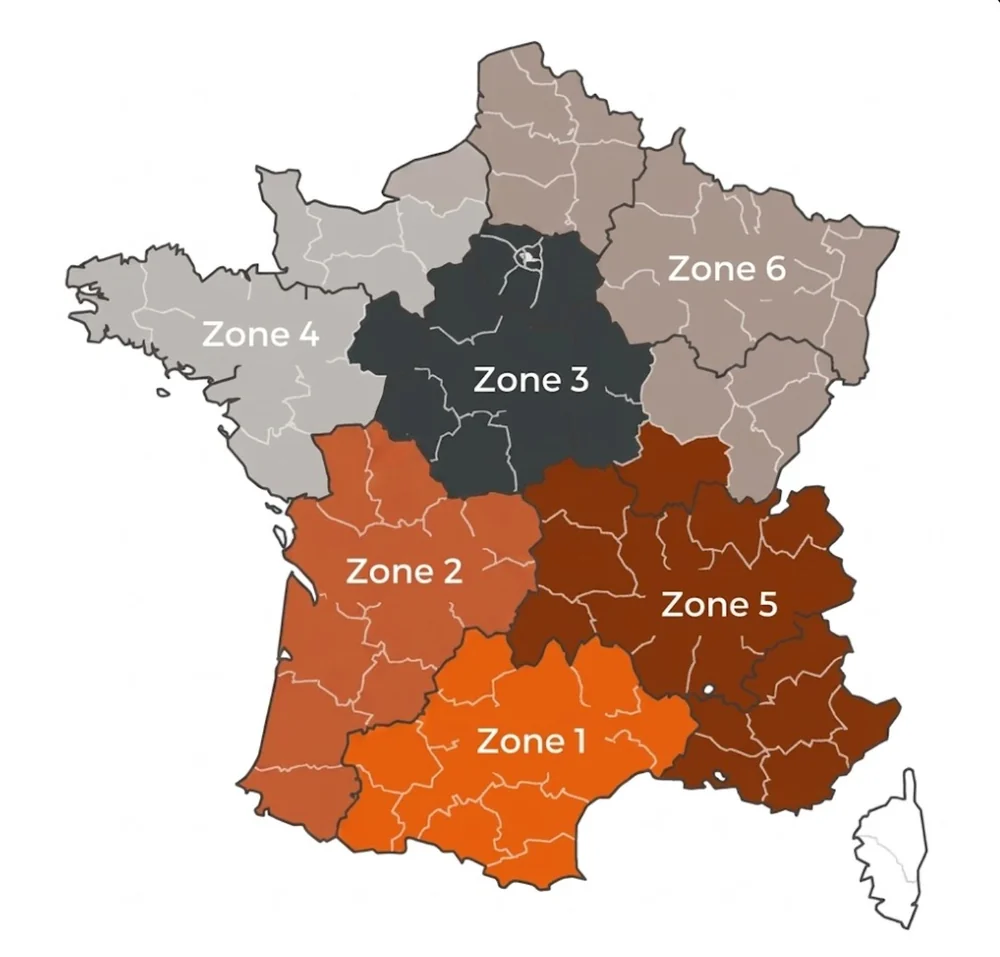
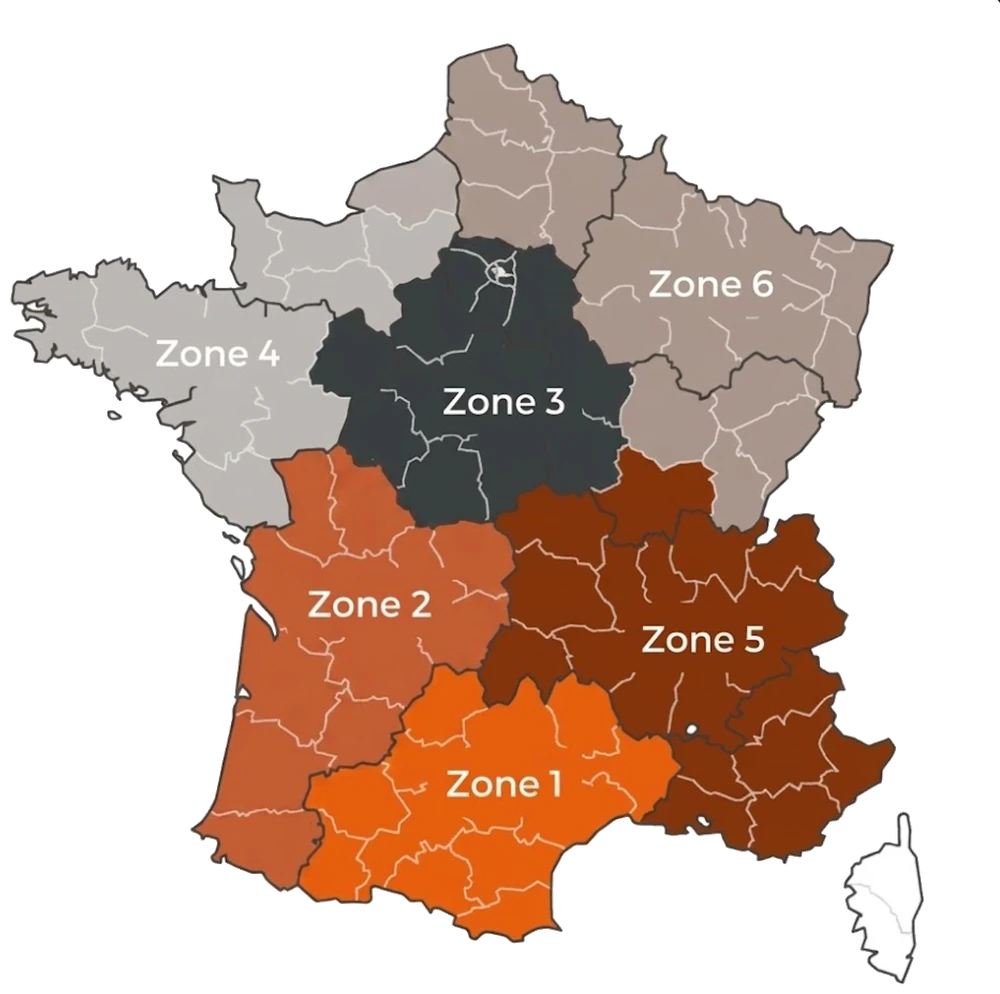
Bloc livraison : carte détourée, tarifs sur 2 colonnes + hover sur les zones

Changed region(s): [[0.0, 0.0303, 0.93, 1.0]]

diff --git a/assets/css/style.css b/assets/css/style.css
@@ -591,20 +591,26 @@ footer{background:#060607;padding:90px 0 0;border-top:1px solid var(--line)}
 .phero .hero-cta{justify-content:center}
 
 /* ---- Bloc Livraison en France ---- */
-.livraison .liv-grid{display:grid;grid-template-columns:1.05fr 1fr;gap:60px;align-items:center;margin-top:10px}
-.liv-map{position:relative;border:1px solid var(--line);background:#fff;padding:26px}
-.liv-map::before{content:"";position:absolute;top:0;left:0;width:48px;height:48px;border-top:2px solid var(--orange);border-left:2px solid var(--orange)}
-.liv-map::after{content:"";position:absolute;bottom:0;right:0;width:48px;height:48px;border-bottom:2px solid var(--orange);border-right:2px solid var(--orange)}
-.liv-map img{display:block;width:100%;height:auto}
+.livraison .liv-grid{display:grid;grid-template-columns:1.05fr 1fr;gap:56px;align-items:center;margin-top:10px}
+.liv-map{position:relative;background:radial-gradient(60% 55% at 50% 45%,rgba(255,255,255,.07),transparent 72%)}
+.liv-map img{display:block;width:100%;height:auto;filter:drop-shadow(0 18px 40px rgba(0,0,0,.45))}
 .liv-h2{font-family:'Bricolage Grotesque';font-weight:800;font-size:clamp(1.9rem,3.4vw,2.9rem);letter-spacing:-.02em;line-height:1.05;color:#fff}
 .liv-h2 em{font-style:normal;color:var(--orange)}
-.liv-sub{font-size:1.05rem;line-height:1.65;margin:16px 0 28px;max-width:40em;color:var(--steel)}
+.liv-sub{font-size:1.05rem;line-height:1.65;margin:16px 0 30px;max-width:42em;color:var(--steel)}
 .liv-sub b{color:var(--bone)}
-.zones{display:flex;flex-direction:column;gap:10px;margin-bottom:30px}
-.zrow{display:grid;grid-template-columns:148px 1fr;gap:22px;align-items:center}
-.zlabel{padding:11px 16px;font-family:'Bricolage Grotesque';font-weight:700;font-size:1rem;color:#fff;text-align:center;letter-spacing:.01em}
-.zprice{font-family:'Bricolage Grotesque';font-weight:800;font-size:1.2rem;color:#fff}
+.zones{display:grid;grid-template-columns:1fr 1fr;grid-template-rows:repeat(3,auto);grid-auto-flow:column;gap:12px 26px;margin-bottom:16px}
+.zrow{display:grid;grid-template-columns:128px 1fr;gap:18px;align-items:center;transition:transform .35s var(--ease)}
+.zlabel{padding:12px 16px;font-family:'Bricolage Grotesque';font-weight:700;font-size:1rem;color:#fff;text-align:center;letter-spacing:.01em;transition:transform .35s var(--ease),box-shadow .35s var(--ease),filter .35s var(--ease)}
+.zprice{font-family:'Bricolage Grotesque';font-weight:800;font-size:1.2rem;color:#fff;transition:color .3s var(--ease)}
 .zprice.muted{font-weight:600;font-size:1rem;color:var(--steel)}
-.zrow.corse .zlabel{background:transparent;border:1.5px solid var(--steel);color:#fff}
-@media(max-width:1080px){.livraison .liv-grid{grid-template-columns:1fr;gap:40px}}
-@media(max-width:760px){.zrow{grid-template-columns:120px 1fr;gap:14px}.zlabel{font-size:.88rem;padding:10px 10px}.zprice{font-size:1.05rem}}
+.zrow:hover{transform:translateX(6px)}
+.zrow:hover .zlabel{filter:brightness(1.12) saturate(1.05);box-shadow:0 10px 26px -10px rgba(0,0,0,.7);transform:scale(1.03)}
+.zrow:hover .zprice{color:var(--orange)}
+.zfoot{display:flex;justify-content:space-between;align-items:center;gap:18px;margin-top:6px;padding:14px 18px;border:1.5px solid rgba(244,241,234,.22);transition:border-color .35s var(--ease),background .35s var(--ease)}
+.zfoot:hover{border-color:var(--orange);background:rgba(255,90,24,.06)}
+.zfoot .zfoot-l{font-family:'Bricolage Grotesque';font-weight:700;font-size:1rem;color:#fff}
+.zfoot .zfoot-r{font-family:'JetBrains Mono';font-size:.72rem;letter-spacing:.08em;text-transform:uppercase;color:var(--steel);white-space:nowrap}
+.zfoot:hover .zfoot-r{color:var(--orange)}
+.livraison .btn{margin-top:28px}
+@media(max-width:1080px){.livraison .liv-grid{grid-template-columns:1fr;gap:40px}.liv-map{max-width:560px;margin:0 auto}}
+@media(max-width:760px){.zones{grid-template-columns:1fr;grid-template-rows:none;grid-auto-flow:row;gap:10px}.zrow{grid-template-columns:120px 1fr;gap:14px}.zlabel{font-size:.9rem;padding:10px 12px}.zprice{font-size:1.05rem}.zfoot{flex-direction:column;align-items:flex-start;gap:6px}}

diff --git a/index.html b/index.html
@@ -385,7 +385,10 @@
           <div class="zrow"><span class="zlabel" style="background:#9a8f84">Zone 4</span><span class="zprice">960 € HT</span></div>
           <div class="zrow"><span class="zlabel" style="background:#7c2f17">Zone 5</span><span class="zprice">880 € HT</span></div>
           <div class="zrow"><span class="zlabel" style="background:#9c8a7c">Zone 6</span><span class="zprice">960 € HT</span></div>
-          <div class="zrow corse"><span class="zlabel">Corse</span><span class="zprice muted">Nous consulter</span></div>
+        </div>
+        <div class="zfoot">
+          <span class="zfoot-l">Corse &amp; autres pays européens</span>
+          <span class="zfoot-r">Nous consulter</span>
         </div>
         <a class="btn" href="contact.html"><span>Demander un devis</span><svg class="btn-arrow" width="16" height="16" viewBox="0 0 24 24" fill="none" stroke="currentColor" stroke-width="2"><path d="M5 12h14M13 6l6 6-6 6"/></svg></a>
       </div>